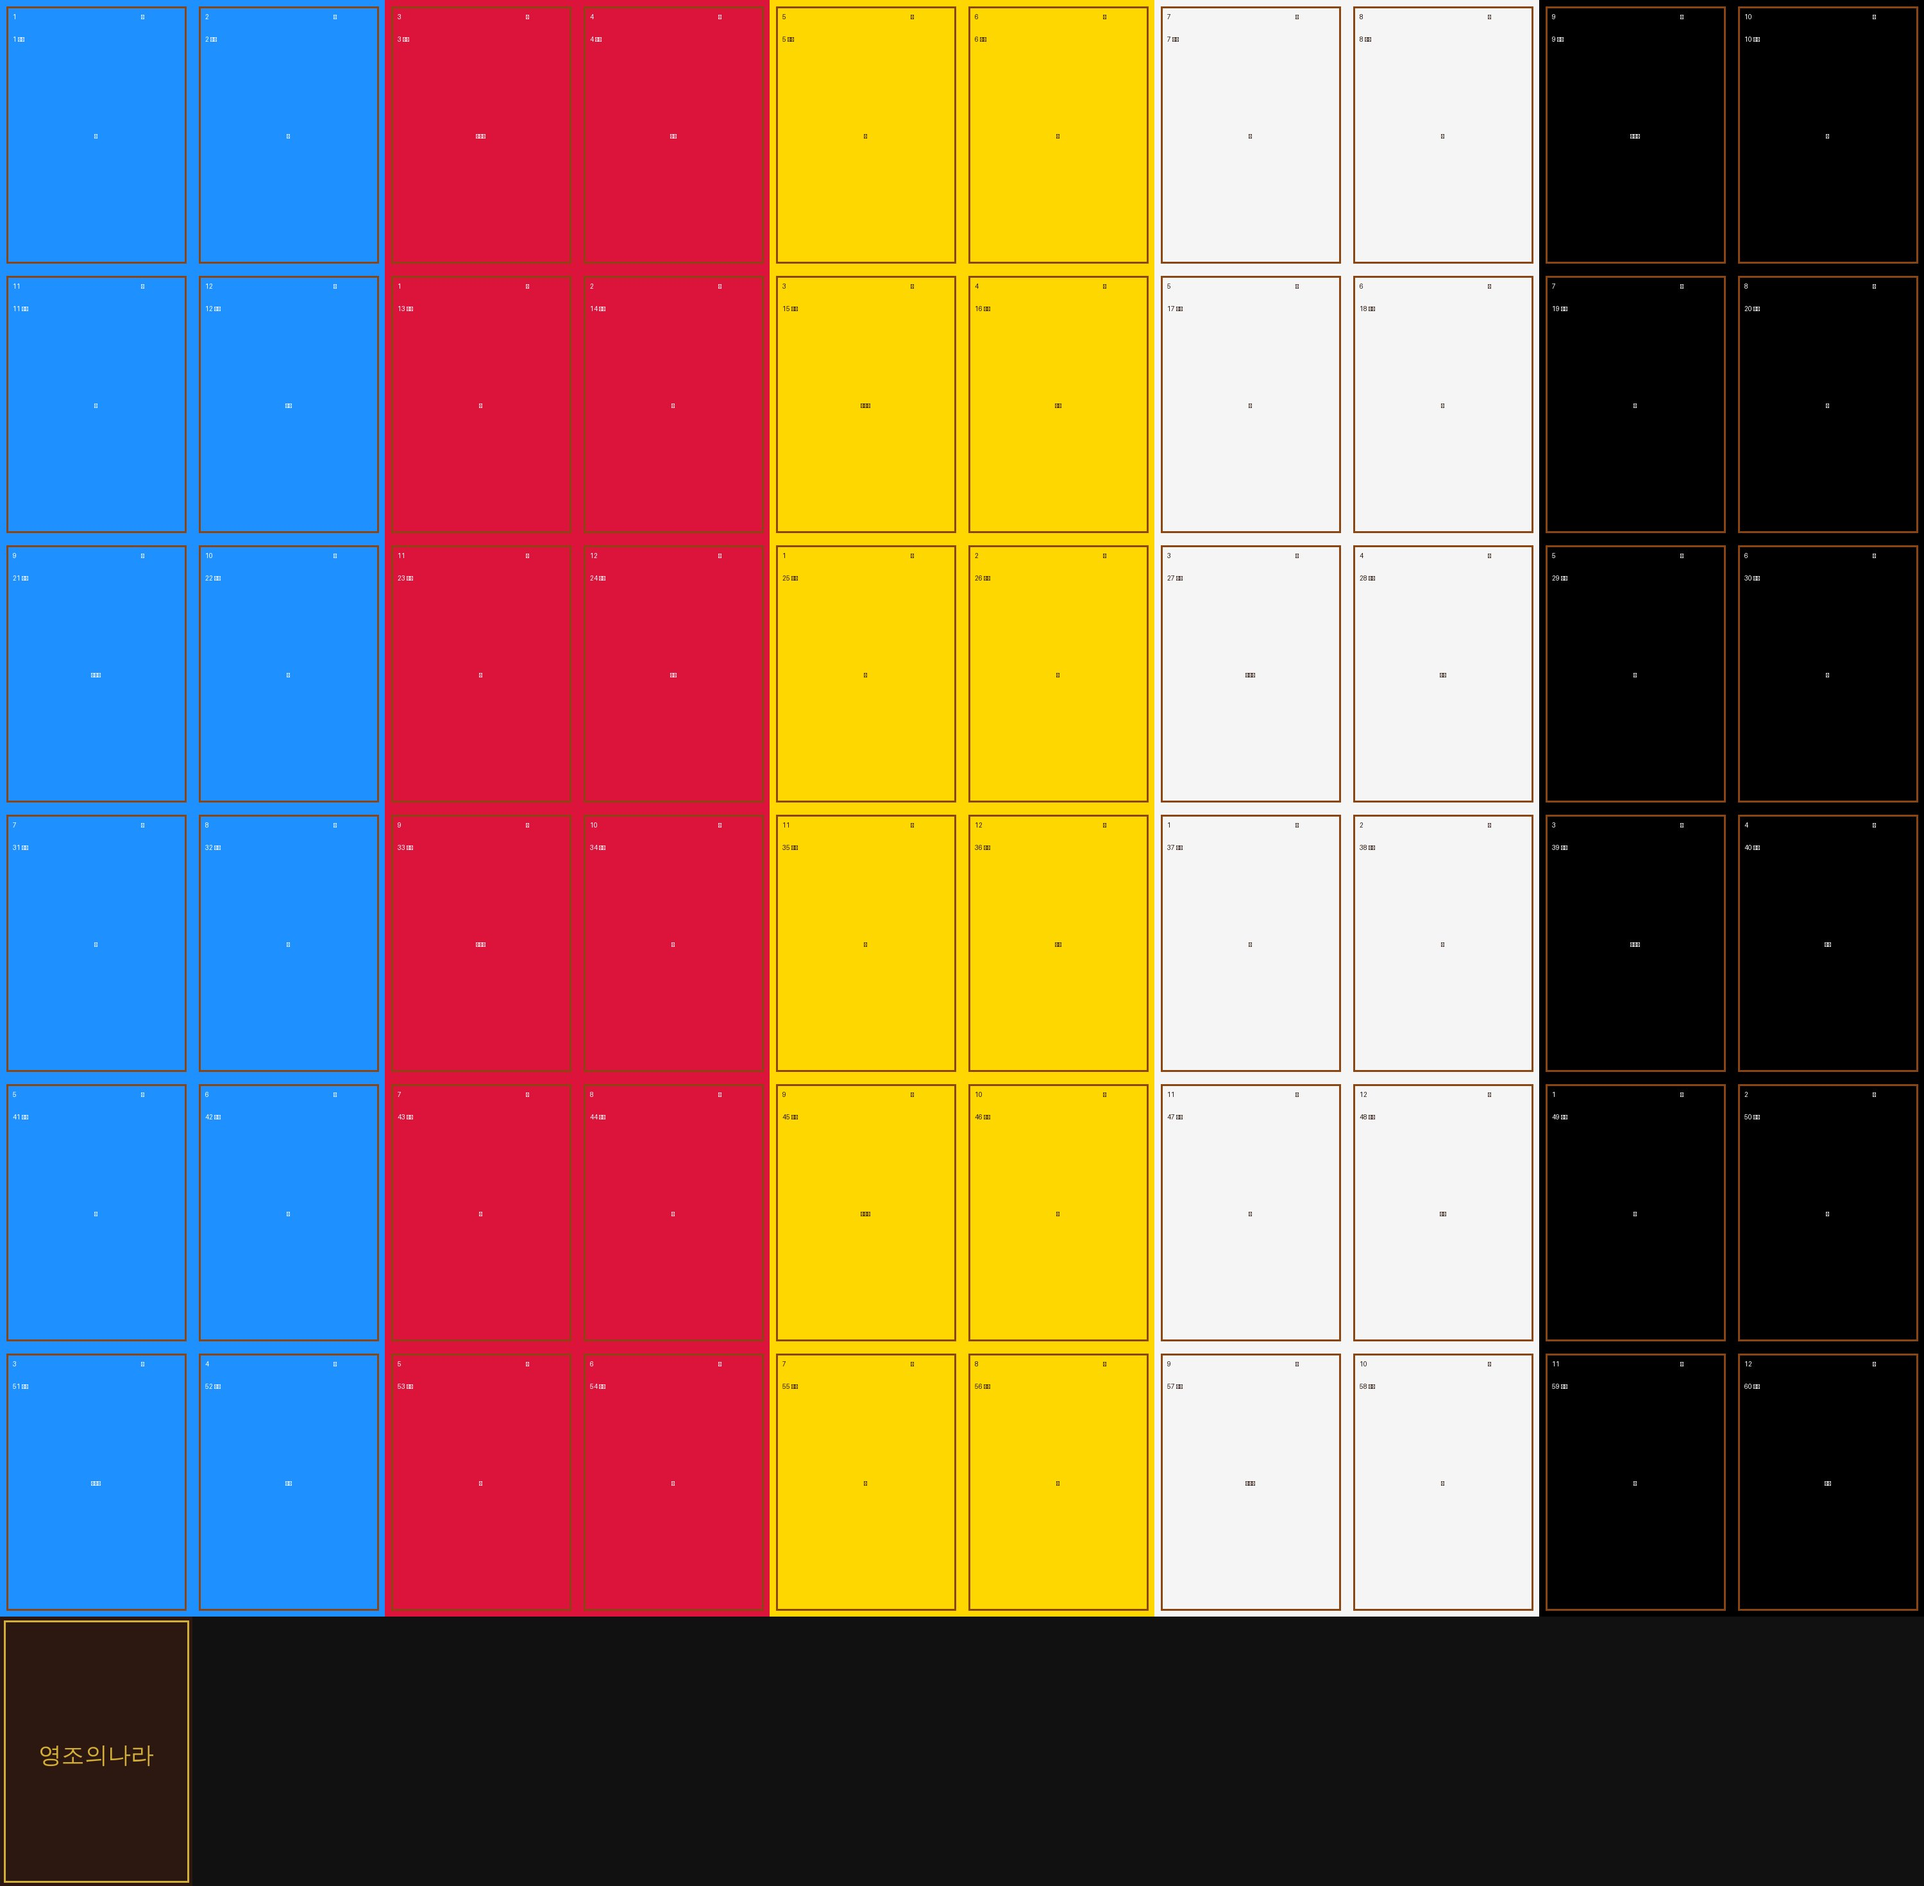
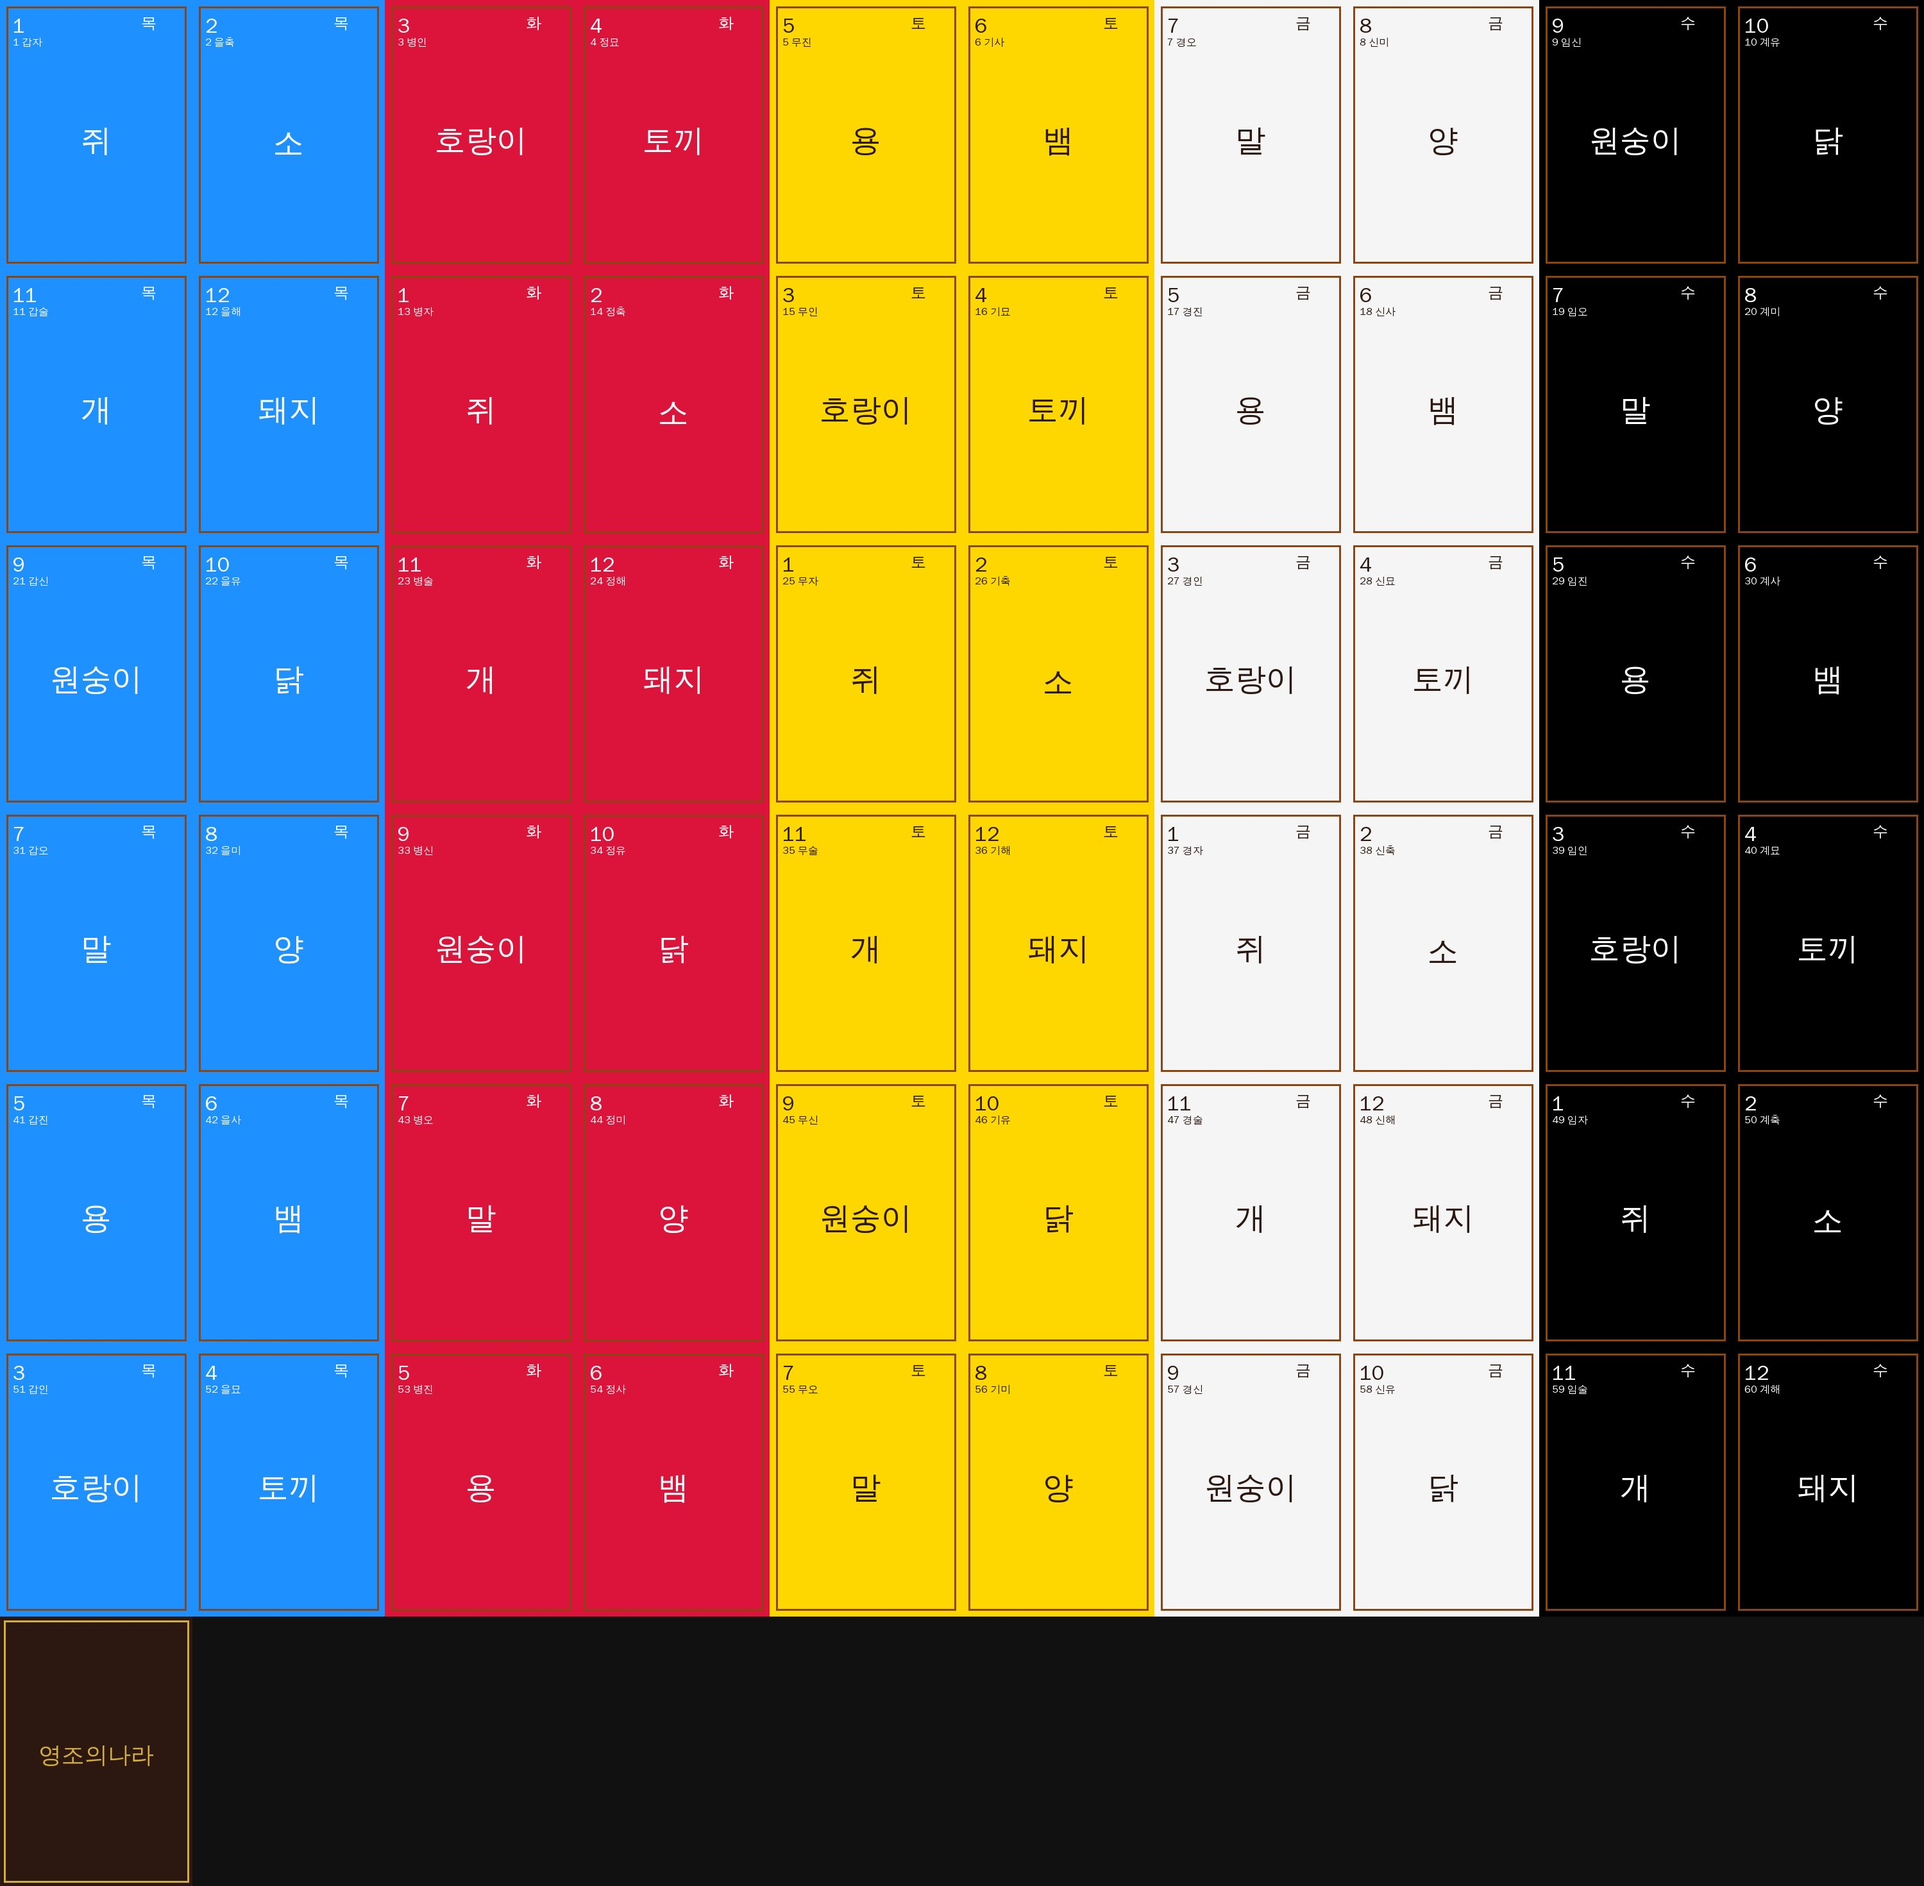
Fix Korean font in gapja card layout engine
card_layout_engine.py's get_font() was hardcoding 'malgun.ttf' as the
default when no 'name' key is present in the font config (which is the
case for all gapja layout elements). Now it searches the same Korean
font candidates list used in config.py, falling back to load_default()
only if none are found.

https://claude.ai/code/session_01QFN3fbq9FdhuuVCKkstzfj

diff --git a/deploy/index.html b/deploy/index.html
@@ -152,7 +152,7 @@
 <header>
   <h1>영조의나라 — Tabletop Simulator 배포 파일</h1>
   <div class="meta">
-    빌드: 2026년 03월 22일 04:20:25 &nbsp;|&nbsp;
+    빌드: 2026년 03월 22일 04:37:32 &nbsp;|&nbsp;
     저장소: darkavengerk/aGameOfYJ @ master
   </div>
 </header>

diff --git a/index.html b/index.html
@@ -152,7 +152,7 @@
 <header>
   <h1>영조의나라 — Tabletop Simulator 배포 파일</h1>
   <div class="meta">
-    빌드: 2026년 03월 22일 04:20:25 &nbsp;|&nbsp;
+    빌드: 2026년 03월 22일 04:37:32 &nbsp;|&nbsp;
     저장소: darkavengerk/aGameOfYJ @ master
   </div>
 </header>

diff --git a/prototype/scripts/card_layout_engine.py b/prototype/scripts/card_layout_engine.py
@@ -43,16 +43,27 @@ class CardLayout(ABC):
         return x, y
     
     def get_font(self, font_config):
-        """폰트 생성"""
-        try:
-            font_name = font_config.get('name', 'malgun.ttf')
-            font_size = font_config['size']
-            font_weight = font_config.get('weight', 'normal')
-            
-            font = ImageFont.truetype(font_name, font_size)
-            return font
-        except:
-            return ImageFont.load_default()
+        """폰트 생성 — 한글 지원 폰트를 우선 탐색"""
+        font_size = font_config['size']
+        # font_config에 name이 있으면 그것을 먼저 시도, 없으면 한글 폰트 탐색
+        candidates = []
+        if 'name' in font_config:
+            candidates.append(font_config['name'])
+        candidates += [
+            'malgun.ttf',
+            '/usr/share/fonts/truetype/wqy/wqy-zenhei.ttc',
+            '/usr/share/fonts/truetype/fonts-japanese-gothic.ttf',
+            '/usr/share/fonts/opentype/ipafont-gothic/ipag.ttf',
+            '/usr/share/fonts/noto-cjk/NotoSansCJK-Regular.ttc',
+            '/usr/share/fonts/google-noto-cjk/NotoSansCJKkr-Regular.otf',
+            '/System/Library/Fonts/AppleGothic.ttf',
+        ]
+        for path in candidates:
+            try:
+                return ImageFont.truetype(path, font_size)
+            except Exception:
+                continue
+        return ImageFont.load_default()
 
 class GapjaCardLayout(CardLayout):
     """60갑자 카드 레이아웃"""
